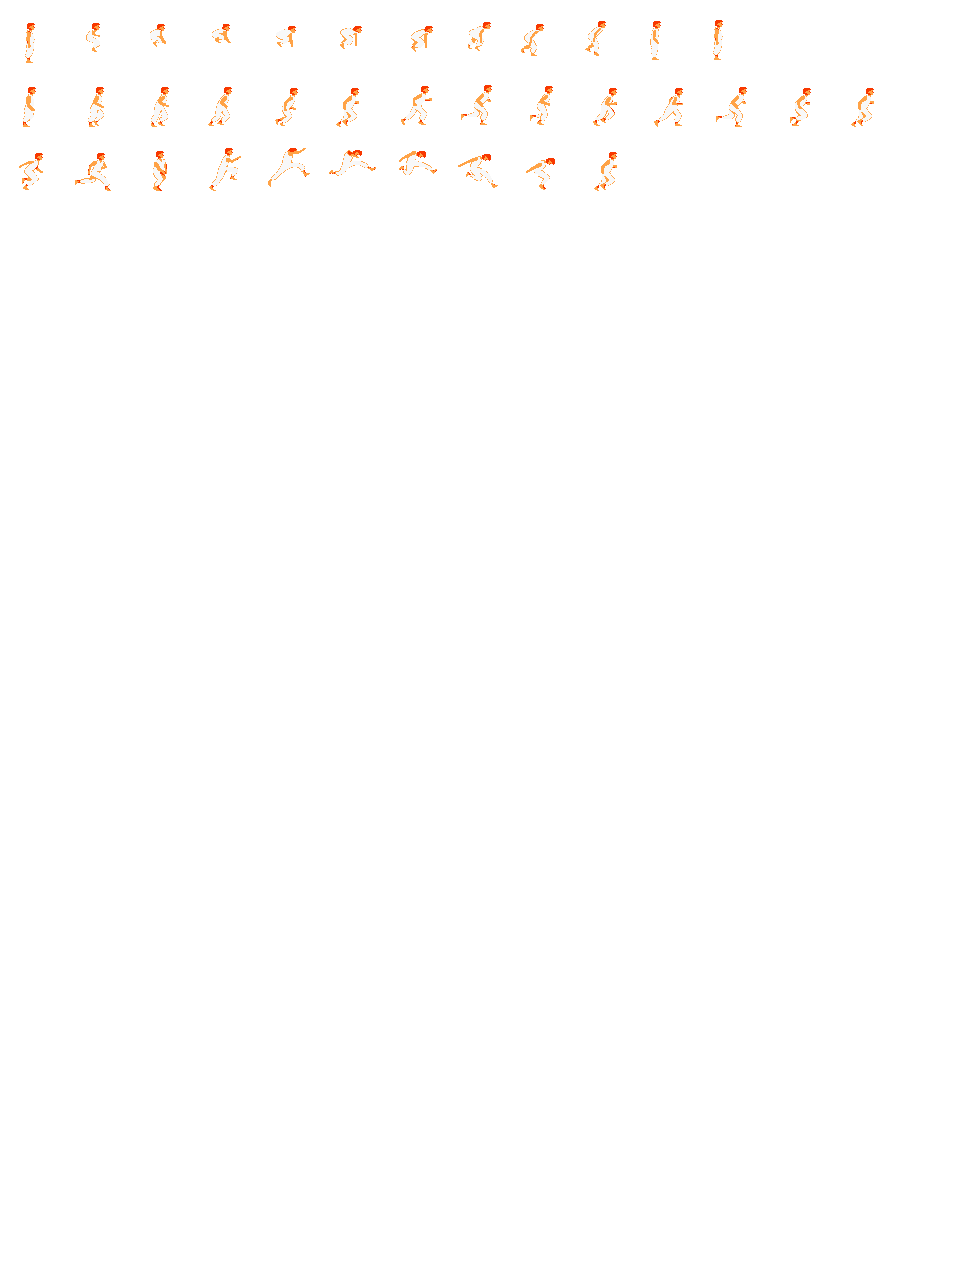
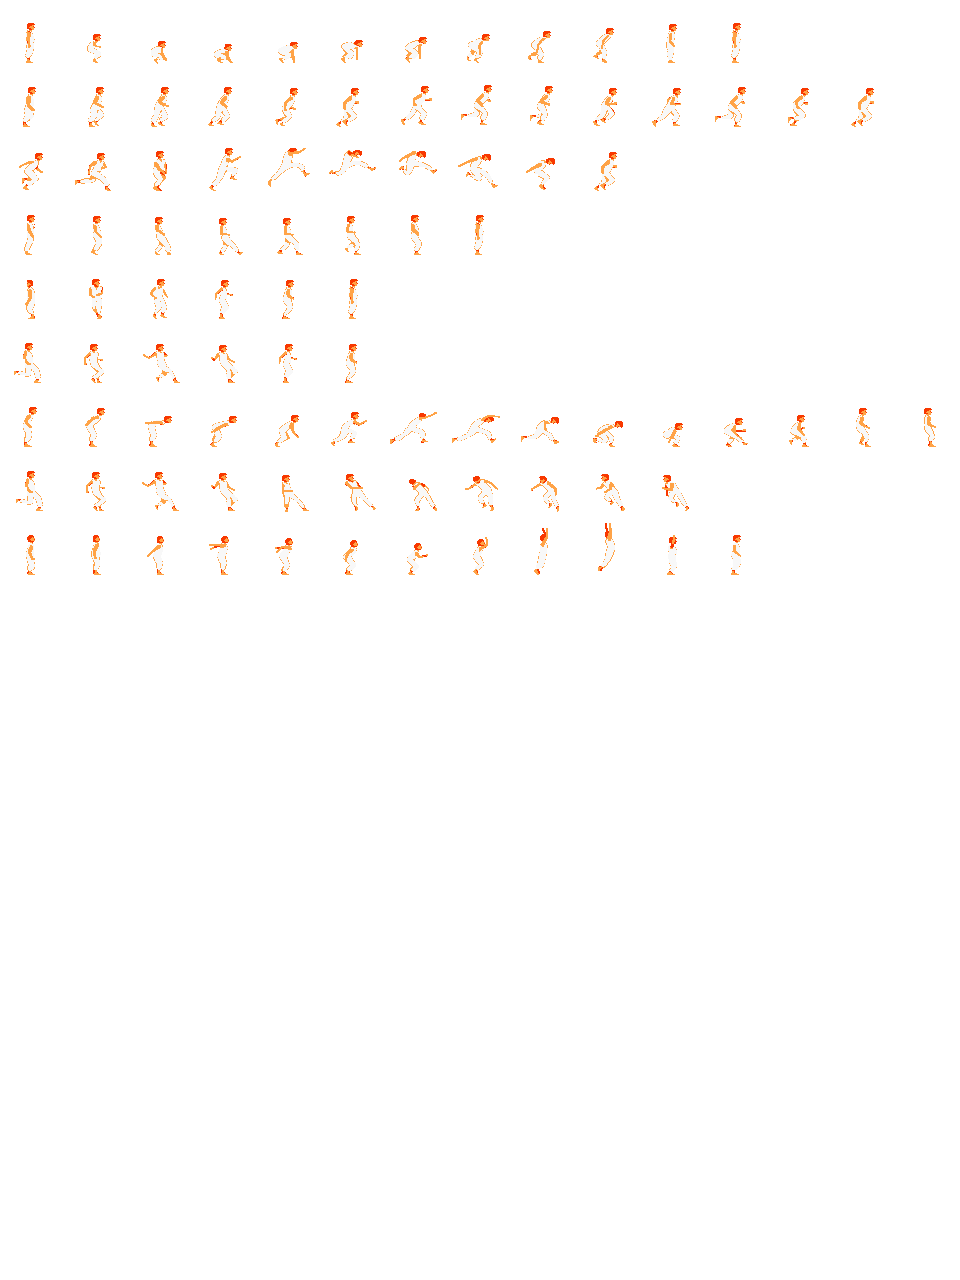
Player run + walk + turn + stop

diff --git a/2DGame/02-Bubble/02-Bubble/Player.cpp b/2DGame/02-Bubble/02-Bubble/Player.cpp
@@ -14,7 +14,6 @@
 
 void Player::init(const glm::ivec2 &tileMapPos, ShaderProgram &shaderProgram)
 {
-	state = STANDING_RIGHT;
 
 	float stepX = 1.0f / 15.0f;
 	float stepY = 1.0f / 20.0f;
@@ -27,7 +26,7 @@ void Player::init(const glm::ivec2 &tileMapPos, ShaderProgram &shaderProgram)
 	spritesheet.loadFromFile("images/Prince.png", TEXTURE_PIXEL_FORMAT_RGBA);
 	spritesheet.setMagFilter(GL_NEAREST);
 	sprite = Sprite::createSprite(glm::ivec2(64, 64), glm::vec2(stepX, stepY), &spritesheet, &shaderProgram);
-	sprite->setNumberAnimations(10);
+	sprite->setNumberAnimations(12);
 	
 		sprite->setAnimationSpeed(STAND_LEFT, 8);
 		sprite->addKeyframe(STAND_LEFT, glm::vec2(-1*stepX, 0.f));
@@ -36,16 +35,16 @@ void Player::init(const glm::ivec2 &tileMapPos, ShaderProgram &shaderProgram)
 		sprite->addKeyframe(STAND_RIGHT, glm::vec2(0.f, 0.f));
 		
 		sprite->setAnimationSpeed(RUN_LEFT, 10);
-		sprite->addKeyframe(RUN_LEFT, glm::vec2(-1 * stepX, 0.f));
-		sprite->addKeyframe(RUN_LEFT, glm::vec2(-1*stepX, stepY));
-		sprite->addKeyframe(RUN_LEFT, glm::vec2(-2*stepX, stepY));
-		sprite->addKeyframe(RUN_LEFT, glm::vec2(-3*stepX, stepY));
-		sprite->addKeyframe(RUN_LEFT, glm::vec2(-4*stepX, stepY));
-		sprite->addKeyframe(RUN_LEFT, glm::vec2(-5*stepX, stepY));
-		sprite->addKeyframe(RUN_LEFT, glm::vec2(-6*stepX, stepY));
-		sprite->addKeyframe(RUN_LEFT, glm::vec2(-7*stepX, stepY));
-		sprite->addKeyframe(RUN_LEFT, glm::vec2(-8*stepX, stepY));
-		sprite->addKeyframe(RUN_LEFT, glm::vec2(-9*stepX, stepY));
+		sprite->addKeyframe(RUN_LEFT, glm::vec2(-1 *stepX, 0.f));
+		sprite->addKeyframe(RUN_LEFT, glm::vec2(-1* stepX, stepY));
+		sprite->addKeyframe(RUN_LEFT, glm::vec2(-2* stepX, stepY));
+		sprite->addKeyframe(RUN_LEFT, glm::vec2(-3* stepX, stepY));
+		sprite->addKeyframe(RUN_LEFT, glm::vec2(-4* stepX, stepY));
+		sprite->addKeyframe(RUN_LEFT, glm::vec2(-5* stepX, stepY));
+		sprite->addKeyframe(RUN_LEFT, glm::vec2(-6* stepX, stepY));
+		sprite->addKeyframe(RUN_LEFT, glm::vec2(-7* stepX, stepY));
+		sprite->addKeyframe(RUN_LEFT, glm::vec2(-8* stepX, stepY));
+		sprite->addKeyframe(RUN_LEFT, glm::vec2(-9* stepX, stepY));
 		sprite->addKeyframe(RUN_LEFT, glm::vec2(-10*stepX, stepY));
 		sprite->addKeyframe(RUN_LEFT, glm::vec2(-11*stepX, stepY));
 		sprite->addKeyframe(RUN_LEFT, glm::vec2(-12*stepX, stepY));
@@ -119,6 +118,7 @@ void Player::init(const glm::ivec2 &tileMapPos, ShaderProgram &shaderProgram)
 		sprite->addKeyframe(TURN_RIGHT, glm::vec2(2 * stepX, 4 * stepY));
 		sprite->addKeyframe(TURN_RIGHT, glm::vec2(3 * stepX, 4 * stepY));
 		sprite->addKeyframe(TURN_RIGHT, glm::vec2(4 * stepX, 4 * stepY));
+		sprite->addKeyframe(TURN_RIGHT, glm::vec2(4 * stepX, 4 * stepY)); //copy
 
 		sprite->setAnimationSpeed(TURN_LEFT, 10);
 		sprite->addKeyframe(TURN_LEFT, glm::vec2(-1 * stepX, 4 * stepY));
@@ -126,8 +126,29 @@ void Player::init(const glm::ivec2 &tileMapPos, ShaderProgram &shaderProgram)
 		sprite->addKeyframe(TURN_LEFT, glm::vec2(-3 * stepX, 4 * stepY));
 		sprite->addKeyframe(TURN_LEFT, glm::vec2(-4 * stepX, 4 * stepY));
 		sprite->addKeyframe(TURN_LEFT, glm::vec2(-5 * stepX, 4 * stepY));
+		sprite->addKeyframe(TURN_LEFT, glm::vec2(-5 * stepX, 4 * stepY)); //copy
 
-	sprite->changeAnimation(0);
+		sprite->setAnimationSpeed(STOP_RIGHT, 10);
+		sprite->addKeyframe(STOP_RIGHT, glm::vec2(0 * stepX, 5 * stepY));
+		sprite->addKeyframe(STOP_RIGHT, glm::vec2(1 * stepX, 5 * stepY));
+		sprite->addKeyframe(STOP_RIGHT, glm::vec2(2 * stepX, 5 * stepY));
+		sprite->addKeyframe(STOP_RIGHT, glm::vec2(3 * stepX, 5 * stepY));
+		sprite->addKeyframe(STOP_RIGHT, glm::vec2(4 * stepX, 5 * stepY));
+		sprite->addKeyframe(STOP_RIGHT, glm::vec2(5 * stepX, 5 * stepY));
+		sprite->addKeyframe(STOP_RIGHT, glm::vec2(5 * stepX, 5 * stepY)); //copy
+
+		sprite->setAnimationSpeed(STOP_LEFT, 10);
+		sprite->addKeyframe(STOP_LEFT, glm::vec2(-1 * stepX, 5 * stepY));
+		sprite->addKeyframe(STOP_LEFT, glm::vec2(-2 * stepX, 5 * stepY));
+		sprite->addKeyframe(STOP_LEFT, glm::vec2(-3 * stepX, 5 * stepY));
+		sprite->addKeyframe(STOP_LEFT, glm::vec2(-4 * stepX, 5 * stepY));
+		sprite->addKeyframe(STOP_LEFT, glm::vec2(-5 * stepX, 5 * stepY));
+		sprite->addKeyframe(STOP_LEFT, glm::vec2(-6 * stepX, 5 * stepY));
+		sprite->addKeyframe(STOP_LEFT, glm::vec2(-6 * stepX, 5 * stepY)); //copy
+
+		setAnimation(STAND_LEFT);
+		setState(STANDING_LEFT);
+
 	tileMapDispl = tileMapPos;
 	sprite->setPosition(glm::vec2(float(tileMapDispl.x + posPlayer.x), float(tileMapDispl.y + posPlayer.y)));
 	
@@ -140,9 +161,13 @@ void Player::update(int deltaTime)
 
 	switch (state) {
 	case STANDING_RIGHT:
-		if (right) {
+		if (right && shift) {
 			setState(WALKING_RIGHT);
 			setAnimation(WALK_RIGHT);
+		}
+		else if (right) {
+			setState(RUNING_RIGHT);
+			setAnimation(RUN_RIGHT);
 		}
 		if (left) {
 			setState(TURNING_LEFT);
@@ -154,7 +179,11 @@ void Player::update(int deltaTime)
 		}
 		break;
 	case STANDING_LEFT:
-		if (left) {
+		if (left && shift) {
+			setState(WALKING_LEFT);
+			setAnimation(WALK_LEFT);
+		}
+		else if (left) {
 			setState(RUNING_LEFT);
 			setAnimation(RUN_LEFT);
 		}
@@ -164,62 +193,58 @@ void Player::update(int deltaTime)
 		}
 		break;
 	case RUNING_LEFT:
-		if (right) {
-			setState(STANDING_RIGHT);
-			setAnimation(STAND_RIGHT);
-		}
-		if (up) {
-			setState(JUMPING_LEFT);
-			setAnimation(JUMP_RUN_LEFT);
-		}
-		else if (posPlayer.x % 64 == 0 && posPlayer != posStartAnim && !left) {
-			setState(STANDING_LEFT);
-			setAnimation(STAND_LEFT);
+		if (posPlayer.x % 64 == 0 && posPlayer != posStartAnim) {
+			if (right) {
+				setState(STANDING_RIGHT);
+				setAnimation(STAND_RIGHT);
+			}
+			else if (up) {
+				setState(JUMPING_LEFT);
+				setAnimation(JUMP_RUN_LEFT);
+			}
+			else {
+				//frenada
+				setState(STOPING_LEFT);
+				setAnimation(STOP_LEFT);
+			}
 		}
 		else {
-			posPlayer.x -= 1;
+			posPlayer.x -= 2;
 			if (map->collisionMoveLeft(posPlayer, glm::ivec2(32, 64))) {
-				posPlayer.x += 1;
+				posPlayer.x += 2;
 				setState(STANDING_LEFT);
 				setAnimation(STAND_LEFT);
 			}
 		}
 		break;
 	case RUNING_RIGHT:
-		if (left) {
-			setState(STANDING_LEFT);
-			setAnimation(STAND_LEFT);
-		}
-		if (up) {
-			setState(JUMPING_RIGHT);
-			setAnimation(JUMP_RUN_RIGHT);
-		}
-		else if (posPlayer.x % 64 == 0 && posPlayer != posStartAnim && !right) {
-			//frenada
-			setAnimation(STAND_RIGHT);
-			setState(STANDING_RIGHT);
+		if (posPlayer.x % 64 == 0 && posPlayer != posStartAnim) {
+			if (left) {
+				setState(STANDING_LEFT);
+				setAnimation(STAND_LEFT);
+			}
+			else if (up) {
+				setState(JUMPING_RIGHT);
+				setAnimation(JUMP_RUN_RIGHT);
+			}
+			else {
+				//frenada
+				setAnimation(STOP_RIGHT);
+				setState(STOPING_RIGHT);
+			}
 		}
 		else {
-			posPlayer.x += 1;
+			posPlayer.x += 2;
 			if (map->collisionMoveRight(posPlayer, glm::ivec2(32, 64)))
 			{
-				posPlayer.x -= 1;
+				posPlayer.x -= 2;
 				setAnimation(STAND_RIGHT);
 				setState(STANDING_RIGHT);
 			}
 		}
 		break;
 	case WALKING_RIGHT:
-		if (left) {
-			setState(STANDING_LEFT);
-			setAnimation(STAND_LEFT);
-		}
-		if (up) {
-			setState(JUMPING_RIGHT);
-			setAnimation(JUMP_RUN_RIGHT);
-		}
-		else if (posPlayer.x % 32 == 0 && posPlayer != posStartAnim && !right) {
-			//frenada
+		if (posPlayer.x % 32 == 0 && posPlayer != posStartAnim && !right) {
 			setAnimation(STAND_RIGHT);
 			setState(STANDING_RIGHT);
 		}
@@ -233,6 +258,22 @@ void Player::update(int deltaTime)
 			}
 		}
 		break;
+	case WALKING_LEFT:
+		if (posPlayer.x % 32 == 0 && posPlayer != posStartAnim && !right) {
+			setAnimation(STAND_LEFT);
+			setState(STANDING_LEFT);
+		}
+		else {
+			posPlayer.x -= 1;
+			if (map->collisionMoveRight(posPlayer, glm::ivec2(32, 64)))
+			{
+				posPlayer.x += 1;
+				setAnimation(STAND_LEFT);
+				setState(STANDING_LEFT);
+			}
+		}
+		break;
+
 	case JUMPING_RIGHT:
 		if (right) {
 			setState(STANDING_RIGHT);
@@ -246,7 +287,7 @@ void Player::update(int deltaTime)
 		}
 		break;
 	case TURNING_RIGHT:
-		if (frame == 25) {
+		if (sprite->animation() >= 5) {
 			setState(STANDING_RIGHT);
 			setAnimation(STAND_RIGHT);
 		}
@@ -255,7 +296,25 @@ void Player::update(int deltaTime)
 		}
 		break;
 	case TURNING_LEFT:
-		if (frame == 25) {
+		if (sprite->animation() >= 5) {
+			setState(STANDING_LEFT);
+			setAnimation(STAND_LEFT);
+		}
+		else {
+			frame++;
+		}
+		break;
+	case STOPING_RIGHT:
+		if (sprite->animation() >= 6) {
+			setState(STANDING_RIGHT);
+			setAnimation(STAND_RIGHT);
+		}
+		else {
+			frame++;
+		}
+		break;
+	case STOPING_LEFT:
+		if (sprite->animation() >= 6) {
 			setState(STANDING_LEFT);
 			setAnimation(STAND_LEFT);
 		}
@@ -394,7 +453,7 @@ void Player::input() {
 	right = Game::instance().getSpecialKey(GLUT_KEY_RIGHT);
 	up = Game::instance().getSpecialKey(GLUT_KEY_UP);
 	down = Game::instance().getSpecialKey(GLUT_KEY_DOWN);
-	//shift = left = Game::instance().getSpecialKey(..);
+	shift = down;
 }
 
 void Player::setState(PlayerState newState) {

diff --git a/2DGame/02-Bubble/02-Bubble/Player.h b/2DGame/02-Bubble/02-Bubble/Player.h
@@ -11,12 +11,12 @@
 
 enum PlayerState {
 	STANDING_LEFT, STANDING_RIGHT, RUNING_LEFT, RUNING_RIGHT, WALKING_LEFT, WALKING_RIGHT, JUMPING_LEFT, JUMPING_RIGHT,
-	JUMP_STANDING_LEFT, JUMP_STANDING_RIGHT, TURNING_LEFT, TURNING_RIGHT
+	JUMP_STANDING_LEFT, JUMP_STANDING_RIGHT, TURNING_LEFT, TURNING_RIGHT, TURN_RUNING_RIGHT, TURN_RUNNING_LEFT, STOPING_RIGHT, STOPING_LEFT
 };
 
 enum PlayerAnims
 {
-	STAND_LEFT, STAND_RIGHT, RUN_LEFT, RUN_RIGHT, WALK_LEFT, WALK_RIGHT, JUMP_RUN_RIGHT, JUMP_RUN_LEFT, TURN_RIGHT, TURN_LEFT
+	STAND_LEFT, STAND_RIGHT, RUN_LEFT, RUN_RIGHT, WALK_LEFT, WALK_RIGHT, JUMP_RUN_RIGHT, JUMP_RUN_LEFT, TURN_RIGHT, TURN_LEFT, STOP_RIGHT, STOP_LEFT
 };
 
 class Player

diff --git a/2DGame/02-Bubble/02-Bubble/Sprite.h b/2DGame/02-Bubble/02-Bubble/Sprite.h
@@ -30,18 +30,17 @@ public:
 	void setAnimationSpeed(int animId, int keyframesPerSec);
 	void addKeyframe(int animId, const glm::vec2 &frame);
 	void changeAnimation(int animId);
-	int getCurrentKeyframe();
 	int animation() const;
 	
 	void setPosition(const glm::vec2 &pos);
-	glm::vec2 position;
+
 private:
 	Texture *texture;
 	ShaderProgram *shaderProgram;
 	GLuint vao;
 	GLuint vbo;
 	GLint posLocation, texCoordLocation;
-	
+	glm::vec2 position;
 	int currentAnimation, currentKeyframe;
 	float timeAnimation;
 	glm::vec2 texCoordDispl;

diff --git a/2DGame/02-Bubble/02-Bubble/Sprite.cpp b/2DGame/02-Bubble/02-Bubble/Sprite.cpp
@@ -72,9 +72,7 @@ void Sprite::setNumberAnimations(int nAnimations)
 	animations.clear();
 	animations.resize(nAnimations);
 }
-int Sprite::getCurrentKeyframe(){
-	return currentKeyframe;
-}
+
 void Sprite::setAnimationSpeed(int animId, int keyframesPerSec)
 {
 	if(animId < int(animations.size()))
@@ -100,7 +98,7 @@ void Sprite::changeAnimation(int animId)
 
 int Sprite::animation() const
 {
-	return currentAnimation;
+	return currentKeyframe;
 }
 
 void Sprite::setPosition(const glm::vec2 &pos)
